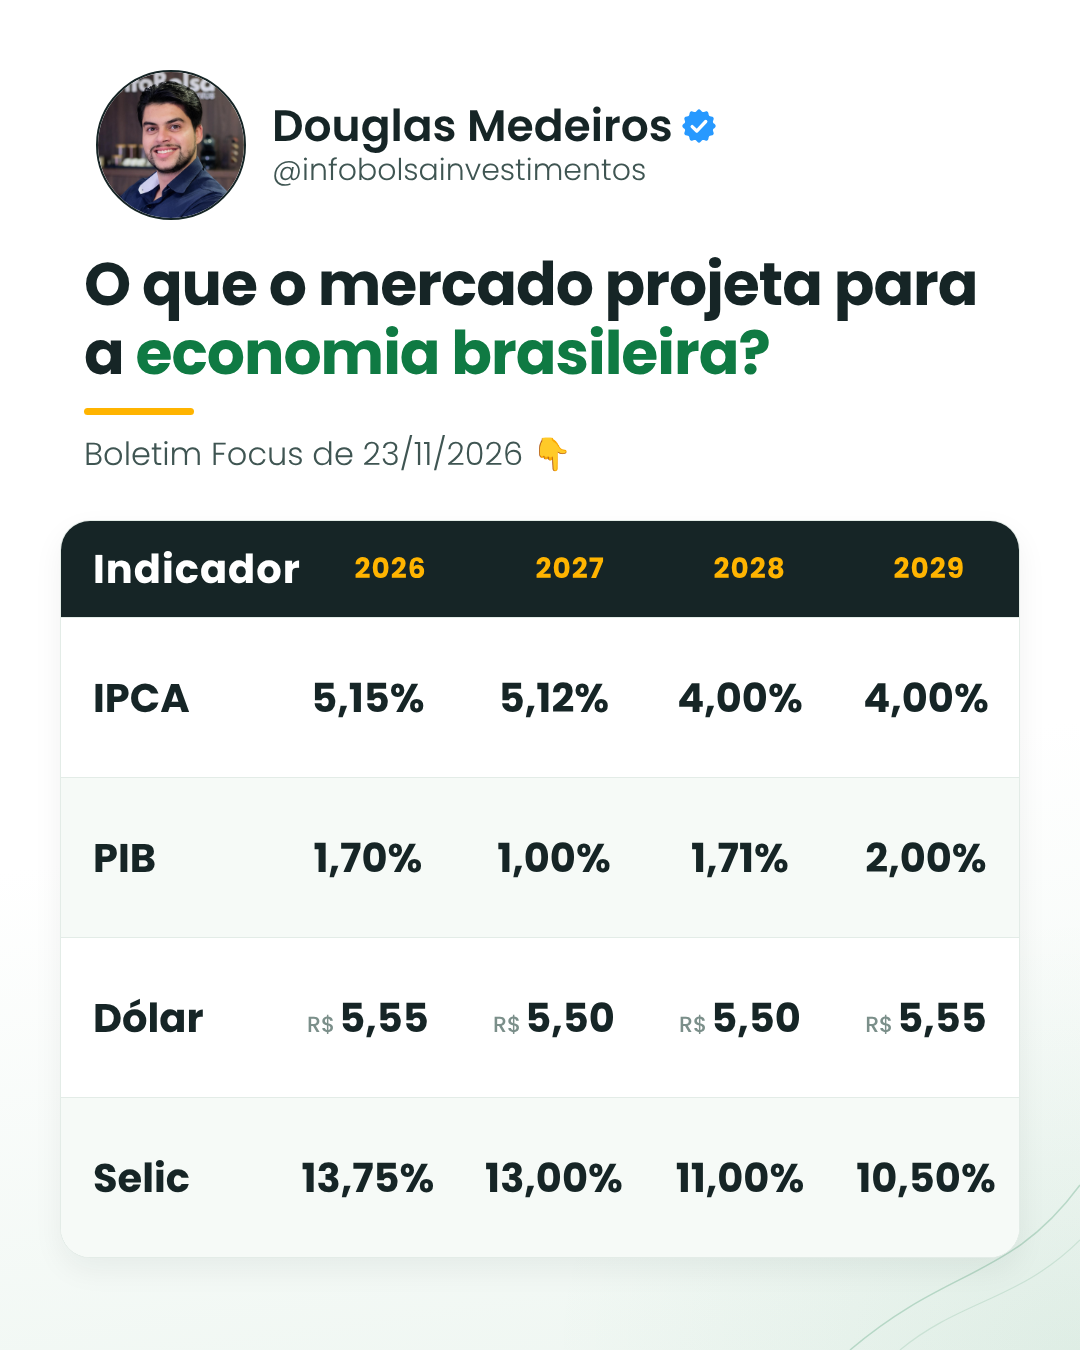
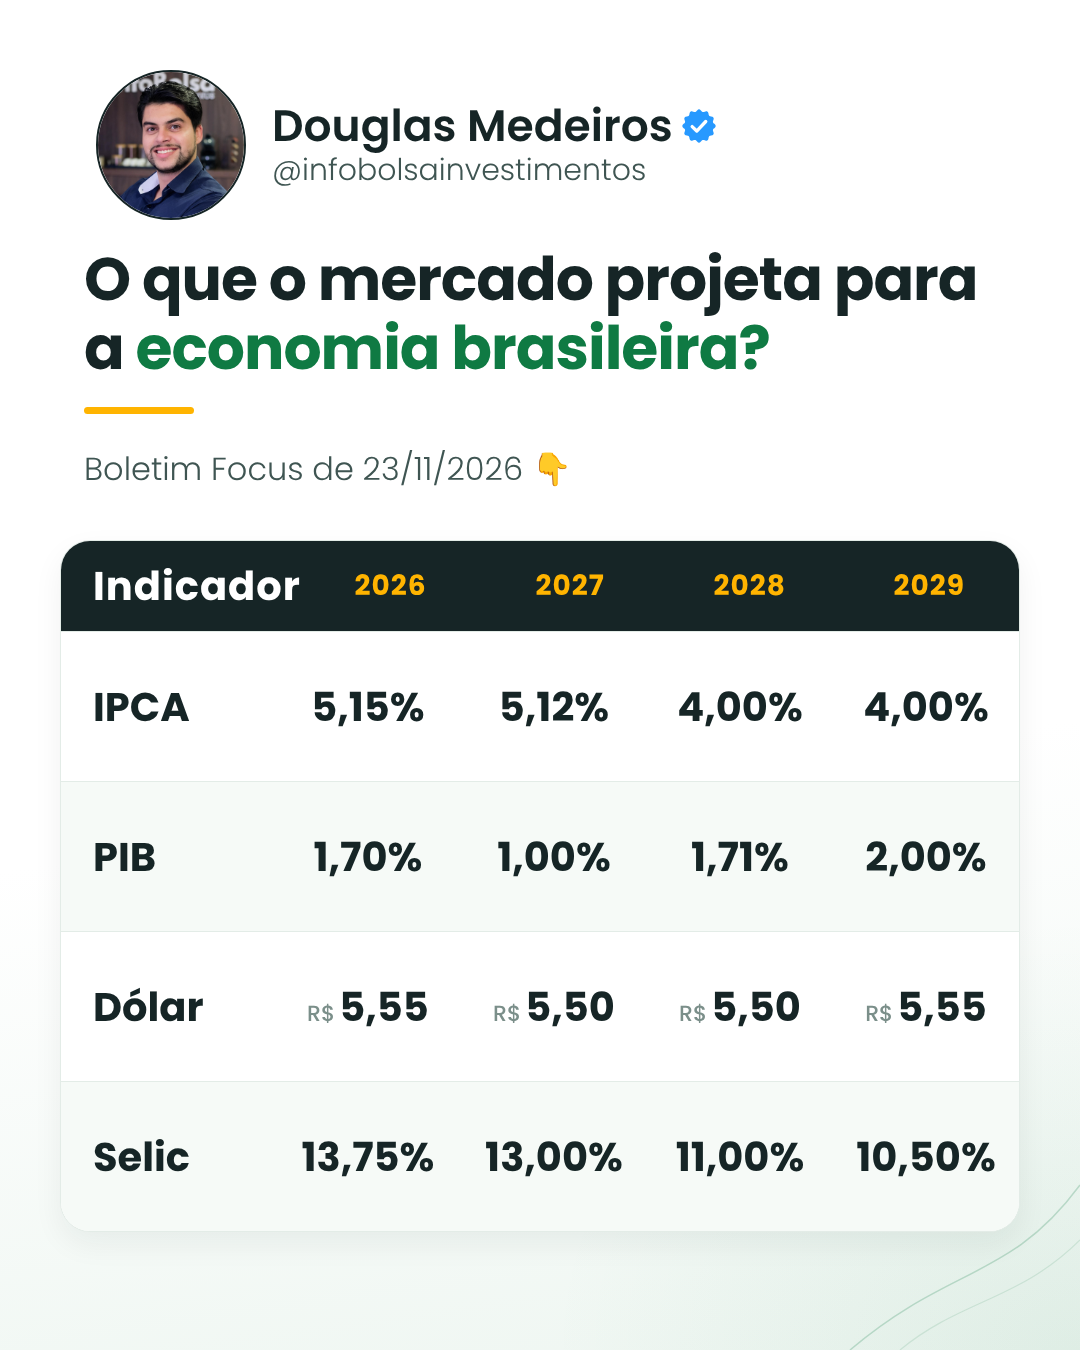
4 posts 25/11: espaçamentos melhores
Claude-Session: https://claude.ai/code/session_01V4Ut9U2W4uPbxLAyJQKmJH

diff --git a/kit/gen_qua.py b/kit/gen_qua.py
@@ -9,9 +9,10 @@ BASE = """
 body{background:linear-gradient(172deg,#ffffff 0%,#ffffff 58%,#eef6f1 100%)!important}
 .luz{position:absolute;inset:0;background:radial-gradient(ellipse 760px 620px at 100% 100%,rgba(15,122,67,.07),transparent 70%)}
 .cab{top:70px}
-.t{position:absolute;left:84px;right:84px;top:250px;font-weight:700;font-size:var(--ts,60px);line-height:1.15;letter-spacing:-1px;color:#162526}
+.t{position:absolute;left:84px;right:84px;top:245px;font-weight:700;font-size:var(--ts,60px);line-height:1.15;letter-spacing:-1px;color:#162526}
 .t .n{font-weight:400}.t .g{color:#0f7a43}
-.t:after{content:'';display:block;width:110px;height:7px;border-radius:4px;background:#FFB400;margin-top:20px}
+.t:after{content:'';display:block;width:110px;height:7px;border-radius:4px;background:#FFB400;margin-top:24px}
+.sb{position:absolute;left:84px;right:84px;font-size:32px;color:#3f5552}
 """
 
 
@@ -30,19 +31,19 @@ def br(v, d=2):
 G = [("HGLG11", "Pátria Log", 608345), ("BTLG11", "BTG Logística", 505908), ("GGRC11", "GGR Covepi", 411230),
      ("XPLG11", "XP Log", 347304), ("VILG11", "Vinci Logística", 149265)]
 CSS1 = """
-.pd{position:absolute;left:70px;right:70px;top:450px;display:grid;grid-template-columns:1fr 1fr;gap:34px;grid-auto-rows:240px}
+.pd{position:absolute;left:70px;right:70px;top:490px;display:grid;grid-template-columns:1fr 1fr;gap:40px;grid-auto-rows:220px}
 .pc{background:#fff;border:1.5px solid #e3ece7;border-radius:30px;box-shadow:0 12px 30px rgba(22,37,38,.06);display:flex;align-items:center;gap:24px;padding:24px 28px;position:relative}
 .pc.um{grid-column:1/3;justify-content:center;padding:30px}
-.pc{flex-direction:column;justify-content:center;text-align:center;gap:12px}.pc.um{flex-direction:row;text-align:left;gap:30px}
-.pc img{width:96px;height:96px;border-radius:24px;object-fit:contain}
+.pc{padding:24px 24px 24px 30px;gap:22px}.pc.um{gap:30px}
+.pc img{width:84px;height:84px;border-radius:24px;object-fit:contain}
 .pc.um img{width:140px;height:140px}
-.pc .tk{font-weight:700;font-size:44px;color:#162526;line-height:1}
+.pc .tk{font-weight:700;font-size:40px;color:#162526;line-height:1}
 .pc.um .tk{font-size:58px}
 .pc .nm2{font-size:24px;color:#7b8f8a;margin-top:6px}
-.pc .q{font-weight:700;font-size:36px;color:#0f7a43;margin-top:10px}
+.pc .q{font-weight:700;font-size:34px;color:#0f7a43;margin-top:12px}
 .pc.um .q{font-size:46px}
 .pc .q small{font-size:24px;font-weight:500;color:#3f5552}
-.md{position:absolute;left:-14px;top:-14px;width:58px;height:58px;border-radius:50%;display:flex;align-items:center;justify-content:center;font-weight:700;font-size:26px;color:#fff;box-shadow:0 6px 14px rgba(0,0,0,.15)}
+.md{position:absolute;left:-12px;top:-12px;width:54px;height:54px;border-radius:50%;display:flex;align-items:center;justify-content:center;font-weight:700;font-size:26px;color:#fff;box-shadow:0 6px 14px rgba(0,0,0,.15)}
 """
 cores = ["#FFB400", "#9aa5a8", "#c07a3c", "#0f7a43", "#0f7a43"]
 cards = ""
@@ -57,10 +58,10 @@ open("q1.html", "w").write(pag('<div class="t">🚨 Os 5 FIIs de galpões com <s
 F = [("IPCA", ["5,15%", "5,12%", "4,00%", "4,00%"]), ("PIB", ["1,70%", "1,00%", "1,71%", "2,00%"]),
      ("Dólar", ["R$ 5,55", "R$ 5,50", "R$ 5,50", "R$ 5,55"]), ("Selic", ["13,75%", "13,00%", "11,00%", "10,50%"])]
 CSS2 = """
-.fs{position:absolute;left:84px;right:84px;top:430px;font-size:32px;color:#3f5552}
-.fo{position:absolute;left:60px;right:60px;top:520px;background:#fff;border:1.5px solid #e3ece7;border-radius:30px;overflow:hidden;box-shadow:0 12px 30px rgba(22,37,38,.06)}
-.fo .r{display:grid;grid-template-columns:1.15fr 1fr 1fr 1fr 1fr;align-items:center;height:160px;border-top:1.5px solid #e3ece7;text-align:center}
-.fo .r:first-child{height:96px;border-top:none;background:#162526;color:#FFB400;font-weight:700;font-size:28px;letter-spacing:1px}
+.fs{position:absolute;left:84px;right:84px;top:445px;font-size:32px;color:#3f5552}
+.fo{position:absolute;left:60px;right:60px;top:540px;background:#fff;border:1.5px solid #e3ece7;border-radius:30px;overflow:hidden;box-shadow:0 12px 30px rgba(22,37,38,.06)}
+.fo .r{display:grid;grid-template-columns:1.15fr 1fr 1fr 1fr 1fr;align-items:center;height:150px;border-top:1.5px solid #e3ece7;text-align:center}
+.fo .r:first-child{height:90px;border-top:none;background:#162526;color:#FFB400;font-weight:700;font-size:28px;letter-spacing:1px}
 .fo .r:first-child div:first-child{color:#fff}
 .fo .r:nth-child(odd):not(:first-child){background:#f6faf7}
 .fo .r div:first-child{text-align:left;padding-left:32px;font-weight:700;font-size:40px;color:#162526}
@@ -80,13 +81,13 @@ C = [("Reserva de emergência", ["Poupança", "CDB liquidez diária", "Tesouro S
      ("Crescer o patrimônio", ["Previdência cara", "Tesouro IPCA+", "Ações"]),
      ("Receber renda mensal", ["Imóvel para alugar", "Ações", "FIIs"])]
 CSS3 = """
-.cl{position:absolute;left:60px;right:60px;top:430px;display:flex;flex-direction:column;gap:24px}
-.bl{background:#fff;border:1.5px solid #e3ece7;border-radius:30px;padding:24px 26px 26px;box-shadow:0 12px 30px rgba(22,37,38,.06)}
-.bl h3{margin:0 0 18px;font-weight:700;font-size:36px;color:#162526;text-align:center}
+.cl{position:absolute;left:60px;right:60px;top:480px;display:flex;flex-direction:column;gap:36px}
+.bl{background:#fff;border:1.5px solid #e3ece7;border-radius:30px;padding:22px 26px 24px;box-shadow:0 12px 30px rgba(22,37,38,.06)}
+.bl h3{margin:0 0 18px;font-weight:700;font-size:34px;color:#162526;text-align:center}
 .bl .g3{display:grid;grid-template-columns:1fr 1fr 1fr;gap:18px}
 .cbx{border-radius:20px;overflow:hidden;border:1.5px solid #e3ece7;text-align:center}
-.cbx .cbl{font-weight:700;font-size:26px;letter-spacing:2px;color:#fff;padding:10px 0}
-.cbx .cbn{font-weight:700;font-size:30px;color:#162526;padding:16px 10px;min-height:96px;display:flex;align-items:center;justify-content:center;line-height:1.15}
+.cbx .cbl{font-weight:700;font-size:24px;letter-spacing:2px;color:#fff;padding:8px 0}
+.cbx .cbn{font-weight:700;font-size:29px;color:#162526;padding:12px 10px;min-height:82px;display:flex;align-items:center;justify-content:center;line-height:1.15}
 """
 lbs = [("RUIM", "#c0392b"), ("BOM", "#d99a00"), ("ÓTIMO", "#0f7a43")]
 bl = ""
@@ -107,12 +108,12 @@ for t, r, p in S:
     L.append((t, r, p, q * p))
 L.sort(key=lambda x: x[3])
 CSS4 = """
-.sm{position:absolute;left:60px;right:60px;top:480px;background:#fff;border:1.5px solid #e3ece7;border-radius:30px;overflow:hidden;box-shadow:0 12px 30px rgba(22,37,38,.06)}
-.sm .r{display:grid;grid-template-columns:1fr .9fr .9fr 1.5fr;align-items:center;height:84px;border-top:1.5px solid #e3ece7;text-align:center;font-size:32px;color:#3f5552}
+.sm{position:absolute;left:60px;right:60px;top:510px;background:#fff;border:1.5px solid #e3ece7;border-radius:30px;overflow:hidden;box-shadow:0 12px 30px rgba(22,37,38,.06)}
+.sm .r{display:grid;grid-template-columns:1fr .9fr .9fr 1.5fr;align-items:center;height:76px;border-top:1.5px solid #e3ece7;text-align:center;font-size:30px;color:#3f5552}
 .sm .r:first-child{height:70px;border-top:none;background:#162526;color:#fff;font-weight:700;font-size:24px}
 .sm .r:first-child div:last-child{color:#FFB400}
 .sm .r:nth-child(odd):not(:first-child){background:#f6faf7}
-.sm .r div:first-child{font-weight:700;color:#162526;font-size:34px}
+.sm .r div:first-child{font-weight:700;color:#162526;font-size:32px}
 .sm .r:first-child div:first-child{color:#fff;font-size:24px}
 .sm .r div:last-child{font-weight:700;color:#0f7a43}
 .sm .r:first-child div:last-child{color:#FFB400}
@@ -121,7 +122,8 @@ rows = '<div class="r"><div>FII</div><div>Últ. rend.</div><div>Preço</div><div
 for t, r, p, v in L:
     rows += (f'<div class="r"><div>{t}</div><div class="num">R$ {br(r, 3 if round(r, 2) != r else 2)}</div>'
              f'<div class="num">R$ {br(p)}</div><div class="num">R$ {br(v)}</div></div>')
-open("q4.html", "w").write(pag('<div class="t">Quanto investir em cada FII para <span class="g">receber um salário mínimo</span> por mês? <span class="n">(R$ 1.621,00)</span></div>'
-                               f'<div class="sm">{rows}</div>', 52, CSS4))
+open("q4.html", "w").write(pag('<div class="t">Quanto investir para receber <span class="g" style="white-space:nowrap">1 salário</span> <span class="g">mínimo</span> por mês?</div>'
+                               '<div class="sb" style="top:440px">R$ 1.621,00 por mês, com cada FII 👇</div>'
+                               f'<div class="sm">{rows}</div>', 58, CSS4))
 json.dump([[t, r, p, round(v, 2)] for t, r, p, v in L], open("/tmp/claude-0/-home-claude/bb41cf14-75e1-5f31-b4e9-ee9e21090f51/scratchpad/sal.json", "w"))
 print([(t, br(v)) for t, r, p, v in L])
